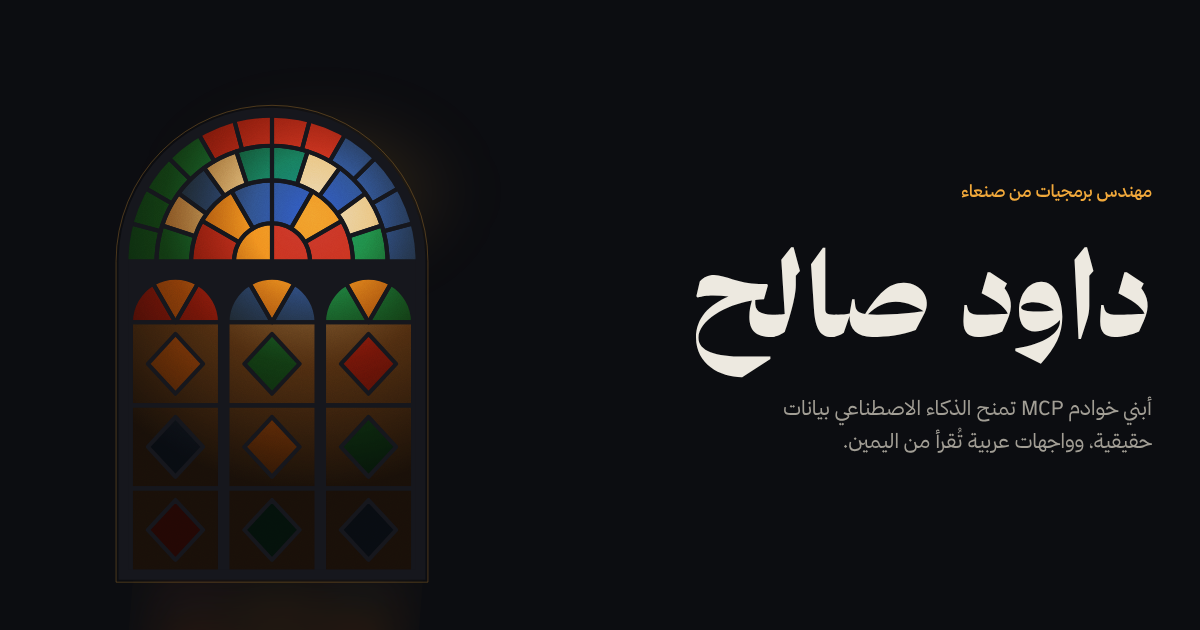
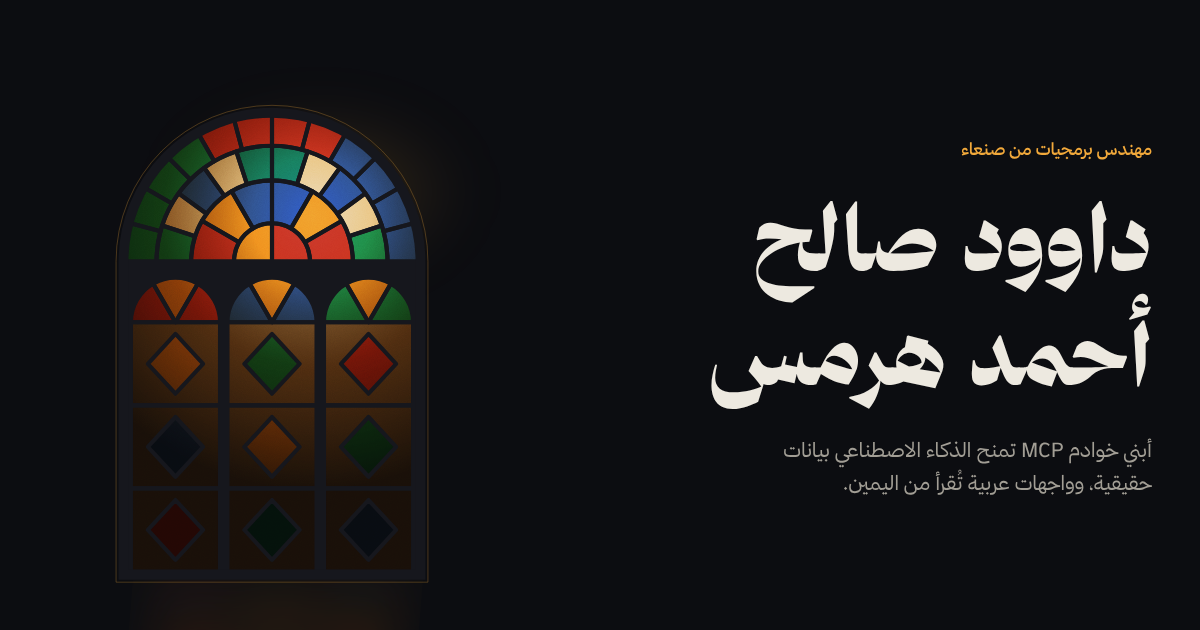
Use full Arabic name: داوود صالح أحمد هرمس
Arabic name on both sites, page titles and share images; the personal hero
sets it on two balanced lines so the call to action stays above the fold.

Changed region(s): [[0.555, 0.3016, 0.9558, 0.6635], [0.6475, 0.6937, 0.9558, 0.7841], [0.8017, 0.2111, 0.9558, 0.2714]]

diff --git a/src/data/personal.ts b/src/data/personal.ts
@@ -2,9 +2,9 @@ import type { T } from './resume';
 
 // Copy for the personal (interactive) site. Kept short on purpose: the resume carries the detail.
 export const p = {
-  title: { ar: 'داود صالح · نوافذ من ضوء', en: 'Dawood Saleh · Windows of light' } as T,
+  title: { ar: 'داوود صالح أحمد هرمس · نوافذ من ضوء', en: 'Dawood Saleh · Windows of light' } as T,
   description: {
-    ar: 'داود صالح، مهندس برمجيات من صنعاء: خوادم MCP وأدوات ذكاء اصطناعي وواجهات عربية. كل نافذة هنا مشروع بنيته.',
+    ar: 'داوود صالح أحمد هرمس، مهندس برمجيات من صنعاء: خوادم MCP وأدوات ذكاء اصطناعي وواجهات عربية. كل نافذة هنا مشروع بنيته.',
     en: "Dawood Saleh, a software engineer from Sana'a: MCP servers, AI tooling and Arabic interfaces. Every window here is something I built.",
   } as T,
   nav: {

diff --git a/src/styles/personal.css b/src/styles/personal.css
@@ -36,7 +36,7 @@
 }
 
 * { box-sizing: border-box; }
-html { scroll-behavior: smooth; -webkit-text-size-adjust: 100%; }
+html { scroll-behavior: smooth; -webkit-text-size-adjust: 100%; overflow-x: clip; }
 @media (prefers-reduced-motion: reduce) { html { scroll-behavior: auto; } }
 body.per {
   margin: 0;
@@ -125,7 +125,8 @@ main > section > * { max-width: 1240px; margin-inline: auto; }
   margin: 0; font-weight: 900; letter-spacing: -.02em;
   font-size: clamp(64px, 9.4vw, 150px); line-height: 1.02;
 }
-html[lang="ar"] .name { line-height: 1.22; letter-spacing: 0; font-size: clamp(64px, 10vw, 160px); }
+html[lang="ar"] .name { line-height: 1.24; letter-spacing: 0; font-size: clamp(54px, 7.6vw, 122px); }
+.name .nl { display: block; white-space: nowrap; }
 .line { margin: 26px 0 36px; max-width: 30ch; font-size: clamp(19px, 1.7vw, 23px); line-height: 1.6; color: var(--muted); }
 .ctas { display: flex; flex-wrap: wrap; gap: 12px; }
 

diff --git a/src/data/resume.ts b/src/data/resume.ts
@@ -20,7 +20,7 @@ export const live = {
 };
 
 export const profile = {
-  name: { ar: 'داود صالح', en: 'Dawood Saleh' } as T,
+  name: { ar: 'داوود صالح أحمد هرمس', en: 'Dawood Saleh' } as T,
   role: {
     ar: 'مهندس برمجيات · أدوات الذكاء الاصطناعي وخوادم MCP · مطوّر واجهات أمامية',
     en: 'Software Engineer · AI Tooling & MCP Servers · Front-End Developer',
